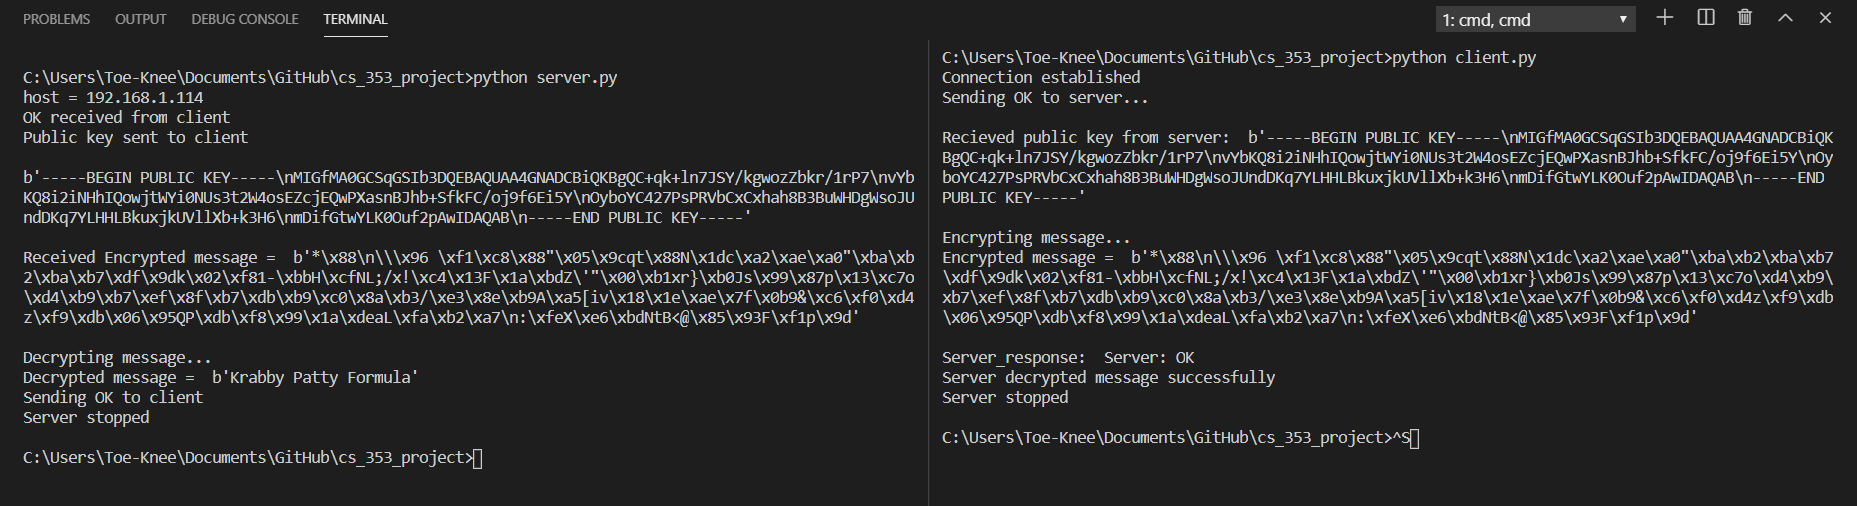
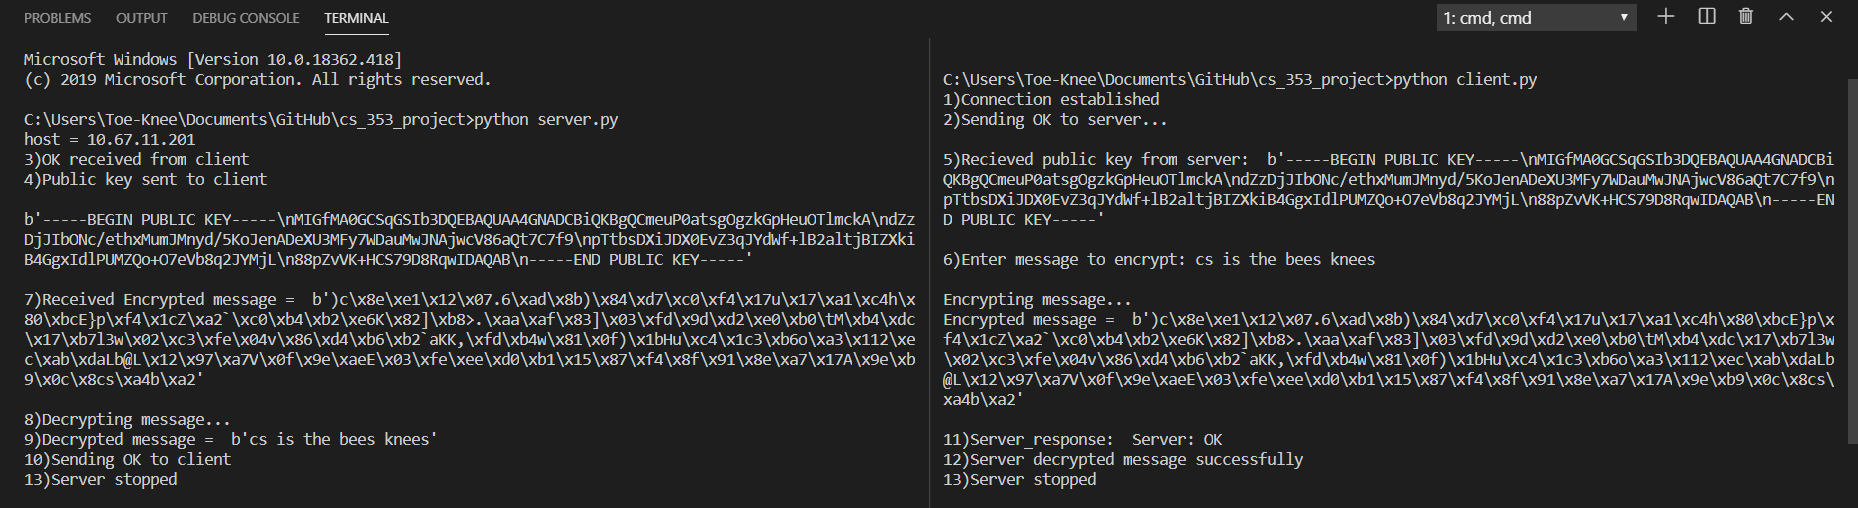
add user input

Changed region(s): [[0.0, 0.0296, 1.0, 0.9783], [0.4997, 0.83, 0.7808, 0.9783], [0.7808, 0.0, 0.8745, 0.0593]]

diff --git a/server.py b/server.py
@@ -11,7 +11,8 @@ public_key = private_key.publickey()
 
 #Declartion
 mysocket = socket.socket()
-host = socket.gethostbyname(socket.getfqdn())
+#host = socket.gethostbyname(socket.getfqdn())
+host = "10.67.11.201"
 port = 7777
 encrypt_str = "encrypted_message="  # used to detect start of encrypted message
 client_response = "Client: OK".encode() # convert string to bytes
@@ -35,24 +36,24 @@ while True:
     # comparisons are made between bytes in the if-statements
     if data == client_response:
         c.send(public_key.exportKey())
-        print("OK received from client")
-        print("Public key sent to client\n")
+        print("3)OK received from client")
+        print("4)Public key sent to client\n")
         print(public_key.exportKey())
 
     elif encrypt_str.encode() in data:  # if encrypt_str "header" is detected 
         data = data.replace(encrypt_str.encode(), ''.encode())  # remove "header"
-        print("\nReceived Encrypted message = ", data)
+        print("\n7)Received Encrypted message = ", data)
         decryptor = PKCS1_OAEP.new(private_key)
         decrypted = decryptor.decrypt(ast.literal_eval(str(data)))  # decrypt message
         c.send("Server: OK".encode())
-        print("\nDecrypting message...")
-        print("Decrypted message = ", decrypted)    # print decrypted message
-        print("Sending OK to client")
+        print("\n8)Decrypting message...")
+        print("9)Decrypted message = ", decrypted)    # print decrypted message
+        print("10)Sending OK to client")
 
     elif data == "Quit".encode(): 
         break
 
 #Server to stop
-c.send("Server stopped".encode())
-print("Server stopped")
+c.send("13)Server stopped".encode())
+print("13)Server stopped")
 c.close()

diff --git a/client.py b/client.py
@@ -3,19 +3,20 @@ from Crypto.PublicKey import RSA
 from Crypto.Cipher import PKCS1_OAEP
 
 server = socket.socket()
-host = "192.168.1.114"
+#host = "192.168.1.114"
+host = "10.67.11.201"
 port = 7777
 
 server.connect((host, port))
 
 #Tell server that connection is OK
 server.sendall("Client: OK".encode())
-print("Connection established")
-print("Sending OK to server...\n")
+print("1)Connection established")
+print("2)Sending OK to server...\n")
 
 #Receive public key string from server
 server_string = server.recv(1024)
-print("Recieved public key from server: ", server_string)
+print("5)Recieved public key from server: ", server_string, "\n")
 
 #Remove extra characters
 #server_string = server_string.replace("public_key=".encode(), ''.encode())
@@ -27,7 +28,8 @@ server_public_key = RSA.importKey(server_string)
 encryptor = PKCS1_OAEP.new(server_public_key)
 
 #Encrypt message and send to server
-message = "Krabby Patty Formula"
+message = input("6)Enter message to encrypt: ")
+#message = "Krabby Patty Formula"
 encrypted = encryptor.encrypt(message.encode())
 print("\nEncrypting message...")
 print("Encrypted message = ", encrypted)
@@ -35,9 +37,9 @@ server.sendall("encrypted_message=".encode() + encrypted)
 
 #Server's response
 server_response = server.recv(1024)
-print("\nServer_response: ", server_response.decode())
+print("\n11)Server_response: ", server_response.decode())
 if server_response.decode() == "Server: OK":
-    print("Server decrypted message successfully")
+    print("12)Server decrypted message successfully")
     server.sendall("Quit".encode())
 
 #Tell server to finish connection
